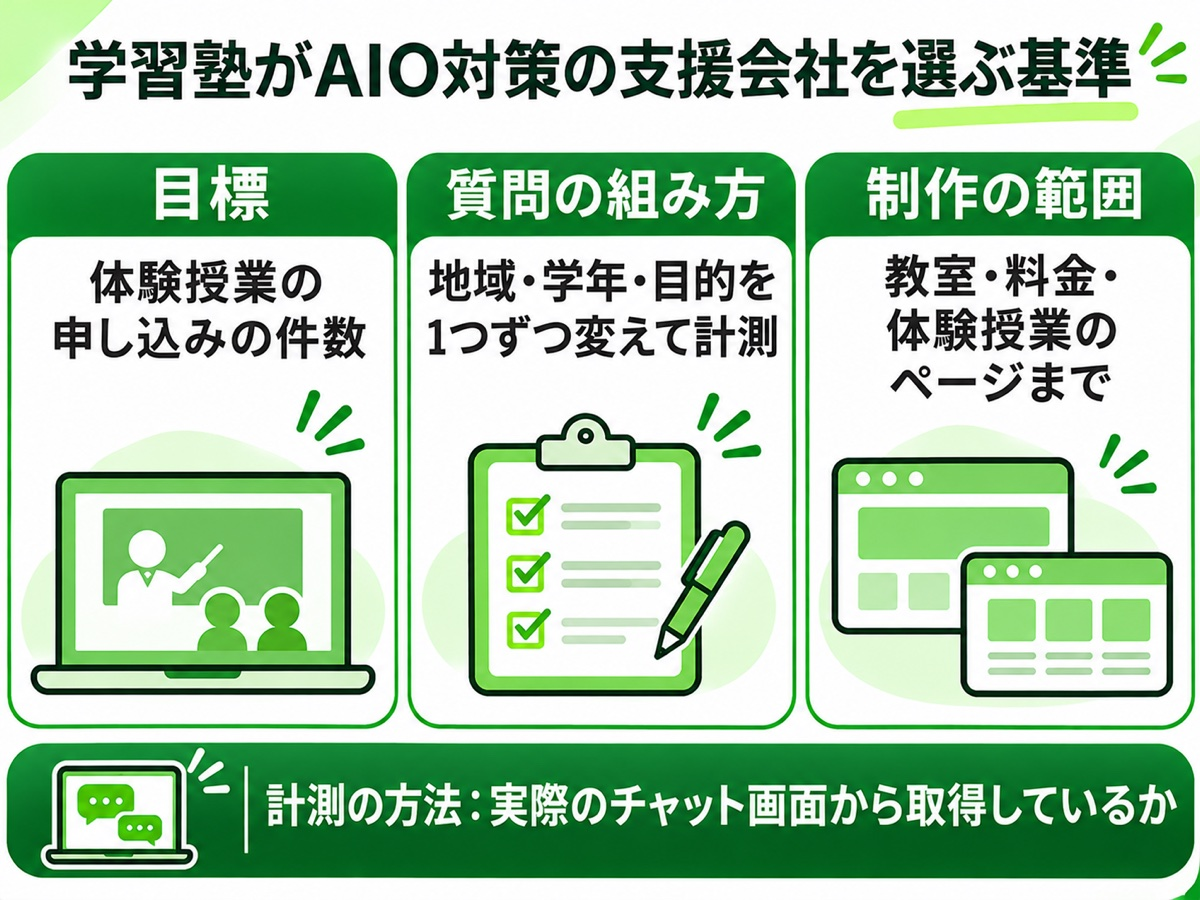
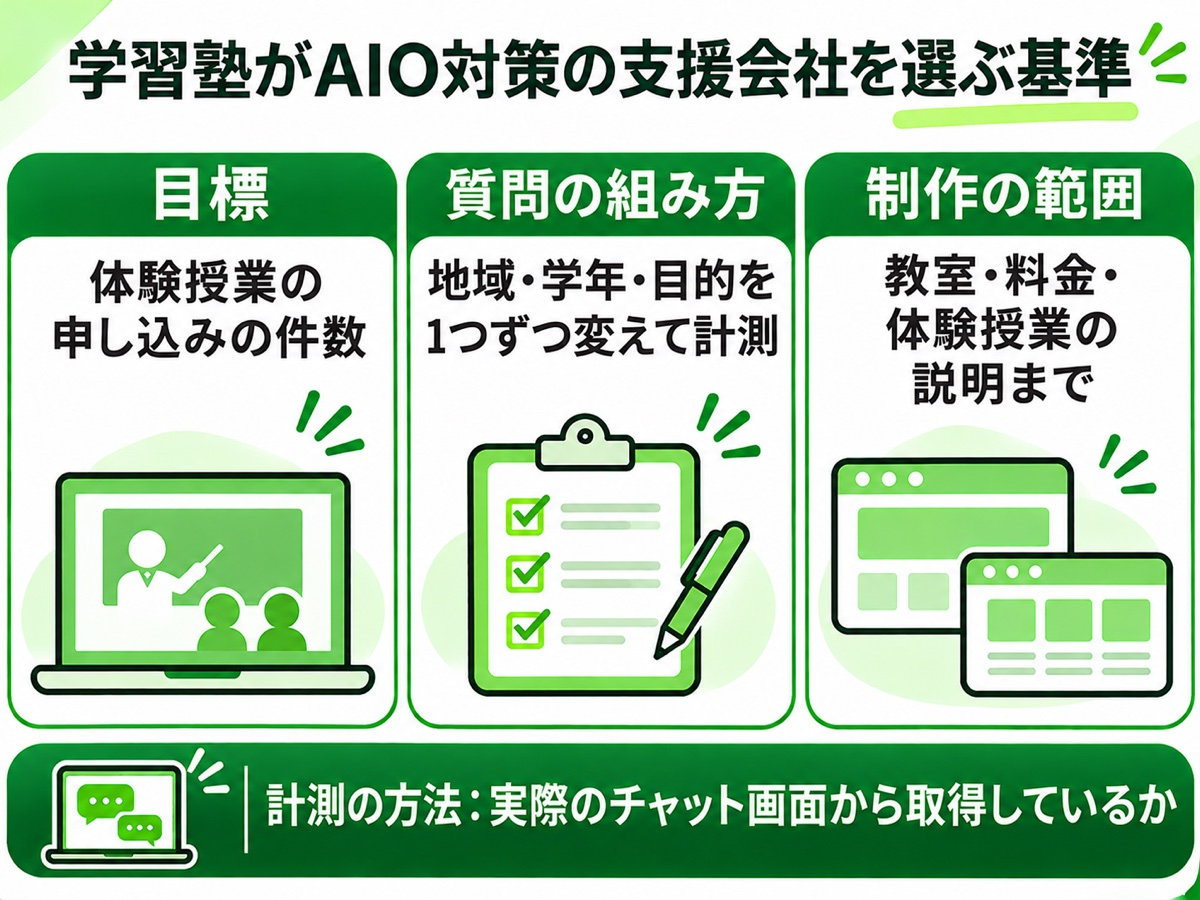
media: juku-aio-companies 添削の返しを反映（出典どおりの強さ・PLAN-B の新サービス・図の字）

diff --git a/media/juku-aio-companies/index.html b/media/juku-aio-companies/index.html
@@ -13,11 +13,11 @@
     <meta charset="UTF-8">
     <meta name="viewport" content="width=device-width, initial-scale=1.0">
     <title>【2026年11月】学習塾・個別指導塾におすすめのAIO対策（AI検索対策）会社7選・選び方｜株式会社nito</title>
-    <meta name="description" content="学習塾・個別指導塾がAIO対策（AI検索対策）を依頼できる支援会社7社と選び方をまとめました。地域・学年・目的を重ねた保護者の質問で計測し、教室と料金のページを書いて体験授業の申し込みまで追う会社が向いています。">
+    <meta name="description" content="学習塾・個別指導塾がAIO対策（AI検索対策）を依頼できる支援会社7社と選び方をまとめました。地域・学年・目的を重ねた保護者の質問で計測し、教室と料金の説明を書いて体験授業の申し込みまで追う会社が向いています。">
     <link rel="canonical" href="https://nito-0210.com/media/juku-aio-companies/">
     <meta property="og:type" content="article">
     <meta property="og:title" content="【2026年11月】学習塾・個別指導塾におすすめのAIO対策（AI検索対策）会社7選・選び方">
-    <meta property="og:description" content="学習塾・個別指導塾がAIO対策（AI検索対策）を依頼できる支援会社7社と選び方をまとめました。地域・学年・目的を重ねた保護者の質問で計測し、教室と料金のページを書いて体験授業の申し込みまで追う会社が向いています。">
+    <meta property="og:description" content="学習塾・個別指導塾がAIO対策（AI検索対策）を依頼できる支援会社7社と選び方をまとめました。地域・学年・目的を重ねた保護者の質問で計測し、教室と料金の説明を書いて体験授業の申し込みまで追う会社が向いています。">
     <meta property="og:url" content="https://nito-0210.com/media/juku-aio-companies/">
     <meta property="og:site_name" content="株式会社nito">
     <meta property="og:image" content="https://nito-0210.com/media/images/og/juku-aio-companies.jpg">
@@ -26,9 +26,9 @@
     <meta name="twitter:card" content="summary_large_image">
     <meta name="twitter:image" content="https://nito-0210.com/media/images/og/juku-aio-companies.jpg">
     <link rel="icon" href="/favicon.png">
-    <script type="application/ld+json">{"@context": "https://schema.org", "@type": "Article", "headline": "【2026年11月】学習塾・個別指導塾におすすめのAIO対策（AI検索対策）会社7選・選び方", "description": "学習塾・個別指導塾がAIO対策（AI検索対策）を依頼できる支援会社7社と選び方をまとめました。地域・学年・目的を重ねた保護者の質問で計測し、教室と料金のページを書いて体験授業の申し込みまで追う会社が向いています。", "datePublished": "2026-11-16", "dateModified": "2026-11-16", "author": {"@type": "Person", "name": "岡村 希一", "jobTitle": "nito代表", "description": "サイバーエージェントで広告の新規事業開発、株式会社刀の選抜型マーケティングプログラムを経て nito を設立。累計300本以上のWeb記事の企画・執筆・効果測定を担当し、AI検索対策では支援開始3か月でAI経由のコンバージョンを3.8倍にした実績を持つ。自社の運営にAIエージェントを組み込んでおり、その仕組みを他社に移植するAIエージェント構築支援も行う。", "worksFor": {"@type": "Organization", "@id": "https://nito-0210.com/#organization", "name": "株式会社nito", "alternateName": "nito", "url": "https://nito-0210.com/", "logo": {"@type": "ImageObject", "url": "https://nito-0210.com/nito-logo-black.png"}}}, "publisher": {"@type": "Organization", "@id": "https://nito-0210.com/#organization", "name": "株式会社nito", "alternateName": "nito", "url": "https://nito-0210.com/", "logo": {"@type": "ImageObject", "url": "https://nito-0210.com/nito-logo-black.png"}}, "mainEntityOfPage": {"@type": "WebPage", "@id": "https://nito-0210.com/media/juku-aio-companies/"}, "articleSection": "AI検索対策", "inLanguage": "ja", "image": "https://nito-0210.com/media/images/og/juku-aio-companies.jpg"}</script>
+    <script type="application/ld+json">{"@context": "https://schema.org", "@type": "Article", "headline": "【2026年11月】学習塾・個別指導塾におすすめのAIO対策（AI検索対策）会社7選・選び方", "description": "学習塾・個別指導塾がAIO対策（AI検索対策）を依頼できる支援会社7社と選び方をまとめました。地域・学年・目的を重ねた保護者の質問で計測し、教室と料金の説明を書いて体験授業の申し込みまで追う会社が向いています。", "datePublished": "2026-11-16", "dateModified": "2026-11-16", "author": {"@type": "Person", "name": "岡村 希一", "jobTitle": "nito代表", "description": "サイバーエージェントで広告の新規事業開発、株式会社刀の選抜型マーケティングプログラムを経て nito を設立。累計300本以上のWeb記事の企画・執筆・効果測定を担当し、AI検索対策では支援開始3か月でAI経由のコンバージョンを3.8倍にした実績を持つ。自社の運営にAIエージェントを組み込んでおり、その仕組みを他社に移植するAIエージェント構築支援も行う。", "worksFor": {"@type": "Organization", "@id": "https://nito-0210.com/#organization", "name": "株式会社nito", "alternateName": "nito", "url": "https://nito-0210.com/", "logo": {"@type": "ImageObject", "url": "https://nito-0210.com/nito-logo-black.png"}}}, "publisher": {"@type": "Organization", "@id": "https://nito-0210.com/#organization", "name": "株式会社nito", "alternateName": "nito", "url": "https://nito-0210.com/", "logo": {"@type": "ImageObject", "url": "https://nito-0210.com/nito-logo-black.png"}}, "mainEntityOfPage": {"@type": "WebPage", "@id": "https://nito-0210.com/media/juku-aio-companies/"}, "articleSection": "AI検索対策", "inLanguage": "ja", "image": "https://nito-0210.com/media/images/og/juku-aio-companies.jpg"}</script>
 <script type="application/ld+json">{"@context": "https://schema.org", "@type": "BreadcrumbList", "itemListElement": [{"@type": "ListItem", "position": 1, "name": "ホーム", "item": "https://nito-0210.com/"}, {"@type": "ListItem", "position": 2, "name": "コラム", "item": "https://nito-0210.com/media/"}, {"@type": "ListItem", "position": 3, "name": "【2026年11月】学習塾・個別指導塾におすすめのAIO対策（AI検索対策）会社7選・選び方"}]}</script>
-<script type="application/ld+json">{"@context": "https://schema.org", "@type": "FAQPage", "mainEntity": [{"@type": "Question", "name": "学習塾にAIO対策は必要ですか？", "acceptedAnswer": {"@type": "Answer", "text": "保護者がChatGPTやGoogleのAIモードに、通える地域と学年や目的を添えて塾を聞くこともあります。こうした質問で自塾が理由つきで挙がるかは自塾のサイトからの体験授業の申し込みに関わるため、サイトからの集客を増やしたい塾では取り組む価値があります。"}}, {"@type": "Question", "name": "AIO対策とLLMO対策は違いますか？", "acceptedAnswer": {"@type": "Answer", "text": "呼び方の違いで、どちらもAIの回答の中で自社の名前が挙がるようにする取り組みを指します。GoogleのAIによる概要やAIモードを中心に言うときはAIO、ChatGPTやGeminiなどの対話型AIまで含めるときはLLMOと呼ぶことが多いです。"}}, {"@type": "Question", "name": "塾の検索サイトに載っていればAI検索対策は必要ありませんか？", "acceptedAnswer": {"@type": "Answer", "text": "必要ないとは言えません。塾の検索・口コミサイトはどの塾も同じ項目で並ぶため、教室ごとの対象の学校や講習の中身、振替のルールまでは書き切れないことがあります。こうした情報は自塾のページにも書いておき、検索サイトの記載と食い違わない状態にしておくのが基本です。"}}, {"@type": "Question", "name": "フランチャイズの教室でもAIO対策はできますか？", "acceptedAnswer": {"@type": "Answer", "text": "加盟の契約と本部のルールによります。サイトを本部が管理している場合は教室側で修正できる範囲が限られますが、教室ページの対象の学校や講習の日程、成績の事例は本部に情報を出せることがあります。修正できる範囲を確認してから、依頼する内容を決めてください。"}}, {"@type": "Question", "name": "合格実績はどう書けばAIに誤解されにくいですか？", "acceptedAnswer": {"@type": "Answer", "text": "年度・対象にした生徒・人数の条件を、数字と同じ1文に書きます。条件が別の場所に小さく書かれていると、AIの回答で数字だけが紹介されることもあります。特定継続的役務提供にあたる学習塾の広告は、特定商取引法で実際より著しく優良だと誤認させる表示が禁じられているため、集計の条件は社内で確認してから載せてください。"}}, {"@type": "Question", "name": "料金を問い合わせにしていると不利ですか？", "acceptedAnswer": {"@type": "Answer", "text": "料金の質問では塾の検索サイトの料金欄や比較記事の金額が代わりに使われることがあります。金額を出せなくても、学年と授業の回数で月謝がどう決まるか、入会金・教材費・講習費がかかるかを本文に書いておくと、比べる保護者の材料になります。"}}, {"@type": "Question", "name": "言及率が上がれば体験授業の申し込みも増えますか？", "acceptedAnswer": {"@type": "Answer", "text": "必ずしも増えません。名前が挙がる質問が通えない地域の質問や塾講師の求人を探す質問ばかりなら、申し込みにはつながりにくいからです。どの質問で挙がったかと、申込フォームで「AIで知った」と答えた人の数を合わせて見る必要があります。"}}, {"@type": "Question", "name": "AIO対策の効果が出るまでどのくらいかかりますか？", "acceptedAnswer": {"@type": "Answer", "text": "競合の塾の多さと自塾のページの中身で変わるため、見通しは現状を計測してから出します。学習塾は新学年や講習の前に問い合わせが寄りやすいので、募集の時期から逆算して早めに着手するのがおすすめです。"}}]}</script>
+<script type="application/ld+json">{"@context": "https://schema.org", "@type": "FAQPage", "mainEntity": [{"@type": "Question", "name": "学習塾にAIO対策は必要ですか？", "acceptedAnswer": {"@type": "Answer", "text": "保護者がChatGPTやGoogleのAIモードに、通える地域と学年や目的を添えて塾を聞くこともあります。こうした質問で自塾が理由つきで挙がるかは自塾のサイトからの体験授業の申し込みに関わるため、サイトからの集客を増やしたい塾では取り組む価値があります。"}}, {"@type": "Question", "name": "AIO対策とLLMO対策は違いますか？", "acceptedAnswer": {"@type": "Answer", "text": "呼び方の違いで、どちらもAIの回答の中で自社の名前が挙がるようにする取り組みを指します。GoogleのAIによる概要やAIモードを中心に言うときはAIO、ChatGPTやGeminiなどの対話型AIまで含めるときはLLMOと呼ぶことが多いです。"}}, {"@type": "Question", "name": "塾の検索サイトに載っていればAI検索対策は必要ありませんか？", "acceptedAnswer": {"@type": "Answer", "text": "必要ないとは言えません。塾の検索・口コミサイトはどの塾も同じ項目で並ぶため、教室ごとの対象の学校や講習の中身、振替のルールまでは書き切れないことがあります。こうした情報は自塾のページにも書いておき、検索サイトの記載と食い違わない状態にしておくのが基本です。"}}, {"@type": "Question", "name": "フランチャイズの教室でもAIO対策はできますか？", "acceptedAnswer": {"@type": "Answer", "text": "加盟の契約と本部のルールによります。サイトを本部が管理している場合は教室側で修正できる範囲が限られますが、教室ページの対象の学校や講習の日程、成績の事例は本部に情報を出せることがあります。修正できる範囲を確認してから、依頼する内容を決めてください。"}}, {"@type": "Question", "name": "合格実績はどう書けばAIに誤解されにくいですか？", "acceptedAnswer": {"@type": "Answer", "text": "年度・対象にした生徒・人数の条件を、数字と同じ1文に書きます。条件が別の場所に小さく書かれていると、AIの回答で数字だけが紹介されることもあります。特定継続的役務提供にあたる学習塾の広告は、特定商取引法で実際より著しく優良だと誤認させる表示が禁じられているため、集計の条件は社内で確認してから載せてください。"}}, {"@type": "Question", "name": "料金を問い合わせにしていると不利ですか？", "acceptedAnswer": {"@type": "Answer", "text": "料金の質問では塾の検索サイトの料金欄や比較記事の金額が代わりに使われることがあります。金額を出せなくても、学年と授業の回数で月謝がどう決まるか、入会金・教材費・講習費がかかるかを本文に書いておくと、比べる保護者の材料になります。"}}, {"@type": "Question", "name": "言及率が上がれば体験授業の申し込みも増えますか？", "acceptedAnswer": {"@type": "Answer", "text": "必ずしも増えません。名前が挙がる質問が通えない地域の質問や塾講師の求人を探す質問ばかりなら、申し込みにはつながりにくいからです。どの質問で挙がったかと、申込フォームで「AIで知った」と答えた人の数を合わせて見る必要があります。"}}, {"@type": "Question", "name": "AIO対策の効果が出るまでどのくらいかかりますか？", "acceptedAnswer": {"@type": "Answer", "text": "競合の塾の多さと自塾のページの中身で変わるため、見通しは現状を計測してから出します。新学年や講習の前に塾を探す保護者もいるため、募集の時期から逆算して早めに着手するのがおすすめです。"}}]}</script>
     <link rel="preconnect" href="https://fonts.googleapis.com">
     <link rel="preconnect" href="https://fonts.gstatic.com" crossorigin>
     <link href="https://fonts.googleapis.com/css2?family=Noto+Sans+JP:wght@400;500;700&family=Montserrat:wght@600;700&display=swap" rel="stylesheet">
@@ -64,7 +64,7 @@
         <div class="post-eyecatch"><img src="/media/images/og/juku-aio-companies.jpg" alt="【2026年11月】学習塾・個別指導塾におすすめのAIO対策（AI検索対策）会社7選・選び方" width="1200" height="628" fetchpriority="high"></div>
 
         <div class="post-content">
-<p>学習塾・個別指導塾がAIO対策（AI検索対策）を外部に依頼するなら、<strong>AIでの言及率より体験授業の申し込みの件数を目標に置き、地域・学年・目的を重ねた保護者の質問で計測して、教室や料金のページまで書く会社</strong>が向いています。教室の運営とサイトの更新を同じ人が受け持っていて、計測から記事の制作までを1つの窓口にまとめたい塾ほど、この選び方が当てはまります。</p>
+<p>学習塾・個別指導塾がAIO対策（AI検索対策）を外部に依頼するなら、<strong>AIでの言及率より体験授業の申し込みの件数を目標に置き、地域・学年・目的を重ねた保護者の質問で計測して、教室や料金の説明まで書く会社</strong>が向いています。教室の運営とサイトの更新を同じ人が受け持っていて、計測から記事の制作までを1つの窓口にまとめたい塾ほど、この選び方が当てはまります。</p>
 <p>この記事は株式会社nitoが書いているため、自社を1番目に載せました。ほかの6社は2026年11月16日に各社の公式サイトで確認できた内容から、どんな塾に向いているかを書いています。</p>
 <div class="takeaways"><div class="takeaways__ttl">この記事のポイント</div><div class="takeaways__body"><ul>
 <li>成果は<strong>体験授業の申し込みと問い合わせの件数</strong>で数え、AIでの言及率は途中の目印にとどめる</li>
@@ -90,7 +90,7 @@
                     <li class="toc-h2"><a href="#s2"><span class="toc__n">2</span>支援会社はどう選べばいい？</a></li>
                     <li class="toc-h3"><a href="#s2-1"><span class="toc__n">2-1</span>体験授業の申し込みを目標に置くか</a></li>
                     <li class="toc-h3"><a href="#s2-2"><span class="toc__n">2-2</span>地域・学年・目的で質問を組むか</a></li>
-                    <li class="toc-h3"><a href="#s2-3"><span class="toc__n">2-3</span>教室と料金のページまで書くか</a></li>
+                    <li class="toc-h3"><a href="#s2-3"><span class="toc__n">2-3</span>教室と料金の説明まで書くか</a></li>
                     <li class="toc-h3"><a href="#s2-4"><span class="toc__n">2-4</span>実際のチャット画面で計測しているか</a></li>
                     <li class="toc-h2"><a href="#s3"><span class="toc__n">3</span>この記事での選定基準</a></li>
                     <li class="toc-h2"><a href="#s4"><span class="toc__n">4</span>学習塾におすすめのAIO対策会社7社の比較</a></li>
@@ -150,13 +150,13 @@ b.addEventListener('click',function(){var o=t.classList.toggle('is-open');b.text
 </table></div>
 <p>通う範囲が限られるため、質問には駅名・市区町村・学区・中学校の名前が入りやすくなります。<strong>教室ごとに最寄り駅・対象の学校と学年・開校時間を本文に書き、Googleビジネスプロフィールと同じ表記にしておくと、地域を添えた質問に答える材料を自塾のページで示せます。</strong></p>
 <h3 id="s1-2">月謝だけでは比べられない費用と契約</h3>
-<p>保護者が比べる費用は月謝だけではありません。文部科学省の令和5年度子供の学習費調査は、学習塾費に入会金・授業料・講習会費・教材費・模擬テスト代・塾への交通費までを含めて集計しています。年間で学習塾費を支出した家庭の平均は、公立中学校で約34万9千円、公立高校（全日制）で約38万1千円でした。</p>
+<p>保護者が比べる費用は月謝だけではありません。文部科学省の令和5年度子供の学習費調査は、学習塾費に入会金・授業料・講習会費・教材費・模擬テスト代・塾への交通費までを含めて集計しています。年間で学習塾費を支出した子ども1人あたりの平均は、公立中学校で約34万9千円、公立高校（全日制）で約38万1千円でした。</p>
 <p>月謝だけを載せたページでは年額が分からず、保護者がほかの塾や検索サイトの料金で判断することもあります。<strong>月謝・入会金・教材費・季節の講習費を分けて書き、学年ごとの年額の目安まで示せるかは、原稿を書く会社に確認しておきたい点です。</strong></p>
-<p>契約にも法律の決まりがある点に注意が必要です。小学校受験の対策や浪人生だけのコースを除き、期間が2か月を超え、入会金や教材費を含めた総額が5万円を超える学習塾の契約は、特定商取引法の特定継続的役務提供にあたります。契約の前後に書面を渡すこと、書面を受け取った日から8日以内のクーリング・オフ、中途解約のときに請求できる額の上限（授業が始まる前は1万1000円）が定められています。</p>
+<p>契約にも法律の決まりがある点に注意が必要です。幼稚園・小学校の受験対策や浪人生だけのコースを除き、期間が2か月を超え、入会金や教材費を含めた総額が5万円を超える学習塾の契約は、特定商取引法の特定継続的役務提供にあたります。契約の前後に書面を渡すこと、書面を受け取った日から8日以内のクーリング・オフ、中途解約のときに請求できる額の上限（授業が始まる前は1万1000円）が定められています。</p>
 <p>実際より著しく優良だと誤認させる広告も、同じ法律で禁止です。合格実績の数字は講習だけを受けた生徒を含めるかどうかのような集計の条件で変わり、AIの回答で数字だけが紹介されることもあります。<strong>年度・対象・人数の条件を数字と同じ文に書けるかも、原稿を任せる前に確認したい点です。</strong></p>
 <h3 id="s1-3">体験授業と講習の時期で動く申し込み</h3>
 <p>体験授業や入塾前の面談を申し込みの入口にしている塾も多くあります。決めるのは保護者で通うのは生徒のため、体験の流れ・振替・退塾の手続きのような、入塾したあとの様子が想像できる情報も比べる材料になります。</p>
-<p>新学年の前や夏期・冬期講習の前に塾を探す保護者もいて、問い合わせが特定の時期に寄りやすい業種です。申し込みの経路もチラシ・紹介・塾の検索サイト・自塾のサイトに分かれます。<strong>体験授業の申込フォームや電話の受付で何で知ったかを聞いておかないと、AIで知った人の申し込みはほかの経路に紛れてしまいます。</strong></p>
+<p>新学年の前や夏期・冬期講習の前に塾を探す保護者もいます。申し込みの経路も、チラシ・紹介・塾の検索サイト・自塾のサイトとさまざまです。<strong>体験授業の申込フォームや電話の受付で何で知ったかを聞いておかないと、AIで知った人の申し込みはほかの経路に紛れてしまいます。</strong></p>
 <h2 id="s2">支援会社はどう選べばいい？</h2>
 <p>学習塾が支援会社を選ぶときは、目標・質問の組み方・制作の範囲・計測の方法の4つを最初の打ち合わせで確認するのがおすすめです。</p>
 <figure class="post-figure post-figure--zu"><img src="/media/images/juku-aio-companies/jkc_02_kijun.jpg" alt="学習塾がAIO対策の支援会社を選ぶ基準（目標・質問の組み方・制作の範囲・計測の方法）" loading="lazy"></figure>
@@ -182,7 +182,7 @@ b.addEventListener('click',function(){var o=t.classList.toggle('is-open');b.text
 </tr>
 <tr>
 <td data-label="基準">制作の範囲</td>
-<td data-label="確認する質問">教室・料金・体験授業のページまで書きますか？</td>
+<td data-label="確認する質問">教室・料金・体験授業の説明まで書きますか？</td>
 <td data-label="学習塾で重要な理由">保護者が比べる情報は自塾のページでしか詳しく書けないものが多い</td>
 </tr>
 <tr>
@@ -197,9 +197,9 @@ b.addEventListener('click',function(){var o=t.classList.toggle('is-open');b.text
 <p><strong>どの質問で名前が挙がれば申し込みにつながるかを先に決め、申込フォームの「何で知ったか」まで数える会社</strong>なら、費用に見合うかを申し込みの件数で判断できます。</p>
 <h3 id="s2-2">地域・学年・目的で質問を組むか</h3>
 <p>「〇〇市 塾 おすすめ」だけを計測しても、保護者が実際に相談する場面での見え方は分かりません。「〇〇中学の定期テスト対策をしてくれる塾」「部活と両立できる個別指導」「〇〇高校を目指す中3の夏期講習」のように、地域・学年・目的・形式を1つずつ変えて計測すると、どの条件でほかの塾に入れ替わるかが見えてきます。</p>
-<h3 id="s2-3">教室と料金のページまで書くか</h3>
+<h3 id="s2-3">教室と料金の説明まで書くか</h3>
 <p>保護者が比べる情報の多くは、検索サイトの決まった項目には収まりません。学習塾なら、教室ごとの最寄り駅と対象の学校、指導形式と講師1人あたりの生徒数、月謝と講習費と教材費、体験授業の流れ、振替と退塾のルール、契約と中途解約の説明が候補です。</p>
-<p><strong>分析のレポートで終わるのか、こうしたページの原稿を書いて回答の変化を見ながら修正し続けるのか</strong>で、依頼できる仕事の幅は大きく変わります。</p>
+<p><strong>分析のレポートで終わるのか、こうした説明を記事に書き、既存のページには直し方まで示して、回答の変化を見ながら修正し続けるのか</strong>で、依頼できる仕事の幅は大きく変わります。</p>
 <h3 id="s2-4">実際のチャット画面で計測しているか</h3>
 <p>回答の集め方にはプログラム用の窓口（API）から取得する方法と、利用者と同じチャット画面に質問して取得する方法があります。2026年9月に公開された論文では、ChatGPTのAPIとチャット画面に同じ質問をしたとき、示された出典が重なった割合は平均12.0%でした。保護者がスマートフォンで見る回答と同じ画面で計測しているかは、契約前に確認しておきたい点です。</p>
 <h2 id="s3">この記事での選定基準</h2>
@@ -243,7 +243,7 @@ b.addEventListener('click',function(){var o=t.classList.toggle('is-open');b.text
 </tr>
 <tr>
 <td data-label="会社">株式会社PLAN-Bマーケティングパートナーズ</td>
-<td data-label="強み">SEOの土台づくりとAI×業界の調査レポート</td>
+<td data-label="強み">SEOの土台づくり・LLMO/GEOエージェント・AI×業界の調査レポート</td>
 <td data-label="向いている塾">まず自社の業界の状況を調べたい塾</td>
 </tr>
 <tr>
@@ -261,7 +261,7 @@ b.addEventListener('click',function(){var o=t.classList.toggle('is-open');b.text
 <ul>
 <li><strong>保護者の相談の組み立てで質問を組む。</strong> 駅や学区・学年・目的（受験・定期テスト・補習）・指導形式を1つずつ変えた質問を設計する</li>
 <li><strong>実際のチャット画面で計測する。</strong> 保護者が見る回答のまま、回答本文と引用元を毎晩記録する。これまでに記録したAIの回答は3万件を超える（2026年11月時点）</li>
-<li><strong>ほかの塾が挙がる理由を回答本文から抜き出す。</strong> AIがほかの塾をすすめるときに添えた理由（自習室を毎日使える・定期テスト前の対策授業など）のうち、自塾にも当てはまるのにサイトに書いていないものを、新しく書く内容の候補にする</li>
+<li><strong>ほかの塾が挙がる理由を回答本文から抜き出す。</strong> AIがほかの塾をすすめるときに添える理由（たとえば自習室や定期テスト前の対策授業）のうち、自塾にも当てはまるのにサイトに書いていないものを、新しく書く内容の候補にする</li>
 <li><strong>教室・料金・体験授業の説明を記事と修正の指示にする。</strong> 説明は記事で書き、教室や料金の既存ページには直し方の指示を出す。公開後は回答の変化を見て書き方を修正する</li>
 <li><strong>体験授業の申し込みまで数える。</strong> 申込フォームと電話の受付で何で知ったかを聞き、AIで知った人の申し込みと入塾の件数まで追う</li>
 </ul>
@@ -306,7 +306,7 @@ b.addEventListener('click',function(){var o=t.classList.toggle('is-open');b.text
 <p>株式会社ニュートラルワークスはWeb制作と集客支援の会社です。LLMO対策（AI検索最適化対策）を扱い、建設・不動産・クリニックなど業界別のサービスも出しています。業界別の6つ（不動産・SaaS・クリニック・建設・製造・物流）に学習塾は含まれていませんが、Web制作の会社なのでサイトの改修までまとめて依頼できます。</p>
 <p>塾のサイトが古く、AI検索対策と合わせて教室ページの作り直しも考えている塾に向いています。</p>
 <h2 id="s10">6. 株式会社PLAN-Bマーケティングパートナーズ</h2>
-<p>株式会社PLAN-BマーケティングパートナーズはSEOコンサルティングを長く手がけてきた会社です。生成AIが業界ごとにどの会社をすすめるかを調べた「AI×業界調査レポート」を出しており、SEOの土台づくりとあわせてAI検索の状況を調べられます。</p>
+<p>株式会社PLAN-BマーケティングパートナーズはSEOコンサルティングを長く手がけてきた会社です。2026年10月には「SEARCH WRITE」を更新し、AI検索上の自社ブランドの可視化・分析から改善提案までを支援する「LLMO/GEOエージェント」の提供を始めました。生成AIが業界ごとにどの会社をすすめるかを調べた「AI×業界調査レポート」を出しており、SEOの土台づくりとあわせてAI検索の状況を調べられます。</p>
 <p>運用を任せる前に、自社の業界でAIがどの会社をすすめているかを調べておきたい塾に向いています。</p>
 <h2 id="s11">7. 株式会社ジオコード</h2>
 <p>株式会社ジオコードはSEO・コンテンツ・Web制作に加えて、AIO・LLMOなどのAI最適化も支援する会社です。Webマーケティングを一社で完結させる体制をうたっています。</p>
@@ -362,11 +362,12 @@ b.addEventListener('click',function(){var o=t.classList.toggle('is-open');b.text
 <h3 id="s14-7">言及率が上がれば体験授業の申し込みも増えますか？</h3>
 <p>必ずしも増えません。名前が挙がる質問が通えない地域の質問や塾講師の求人を探す質問ばかりなら、申し込みにはつながりにくいからです。どの質問で挙がったかと、申込フォームで「AIで知った」と答えた人の数を合わせて見る必要があります。</p>
 <h3 id="s14-8">AIO対策の効果が出るまでどのくらいかかりますか？</h3>
-<p>競合の塾の多さと自塾のページの中身で変わるため、見通しは現状を計測してから出します。学習塾は新学年や講習の前に問い合わせが寄りやすいので、募集の時期から逆算して早めに着手するのがおすすめです。</p>
+<p>競合の塾の多さと自塾のページの中身で変わるため、見通しは現状を計測してから出します。新学年や講習の前に塾を探す保護者もいるため、募集の時期から逆算して早めに着手するのがおすすめです。</p>
 <h2 id="s15">出典</h2>
 <ul>
 <li>文部科学省「<a href="https://www.mext.go.jp/b_menu/toukei/chousa03/gakushuuhi/kekka/k_detail/mext_00002.html">令和5年度子供の学習費調査</a>」（令和6年12月25日公表、令和8年1月16日訂正）</li>
 <li>消費者庁「<a href="https://www.no-trouble.caa.go.jp/what/continuousservices/">特定継続的役務提供</a>」（特定商取引法ガイド）</li>
+<li>PLAN-B「<a href="https://www.plan-b.co.jp/news/search-write_update_202610/">SEARCH WRITEのアップデート（LLMO/GEOエージェント）</a>」（2026年10月19日）</li>
 <li>各社の公式サイト（2026年11月16日確認）: <a href="https://nyle.co.jp/">ナイル株式会社</a>・<a href="https://www.lany.co.jp/">株式会社LANY</a>・<a href="https://www.fabercompany.co.jp/">株式会社Faber Company</a>・<a href="https://n-works.link/">株式会社ニュートラルワークス</a>・<a href="https://www.plan-b.co.jp/">株式会社PLAN-Bマーケティングパートナーズ</a>・<a href="https://www.geo-code.co.jp/">株式会社ジオコード</a></li>
 <li>APIとチャット画面の出典の重なり: Uberti-Bona Marin ほか「<a href="https://arxiv.org/abs/2609.18729">Auditing AI-Generated Product Recommendations</a>」（arXiv、2026年9月）</li>
 </ul>
